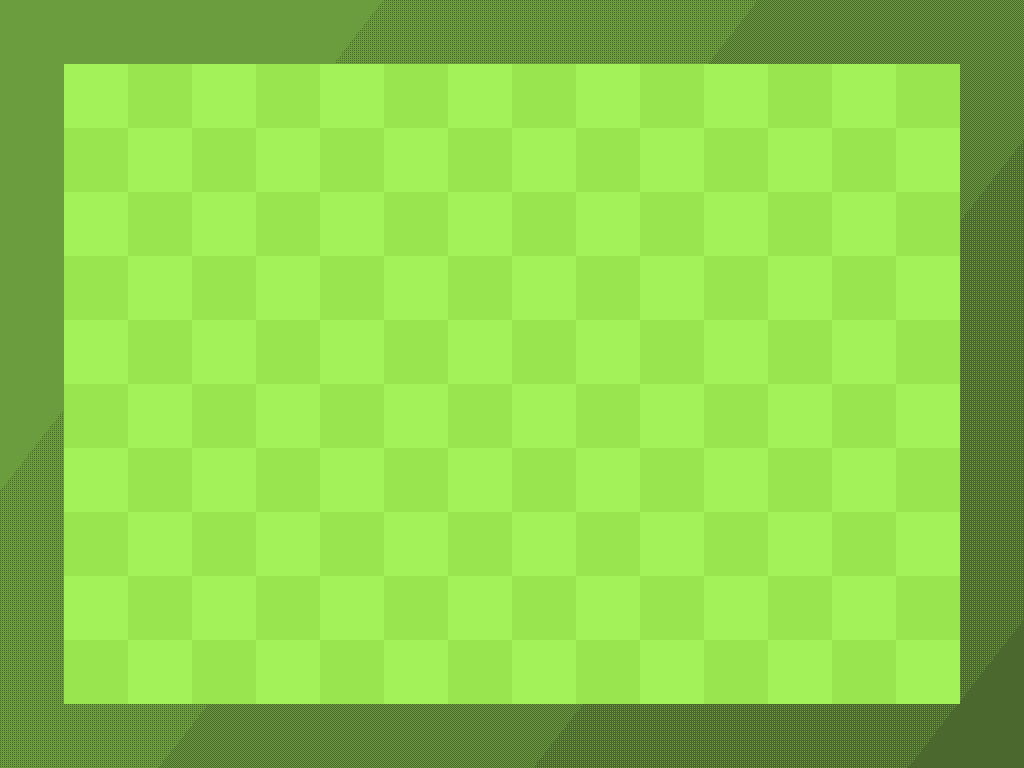
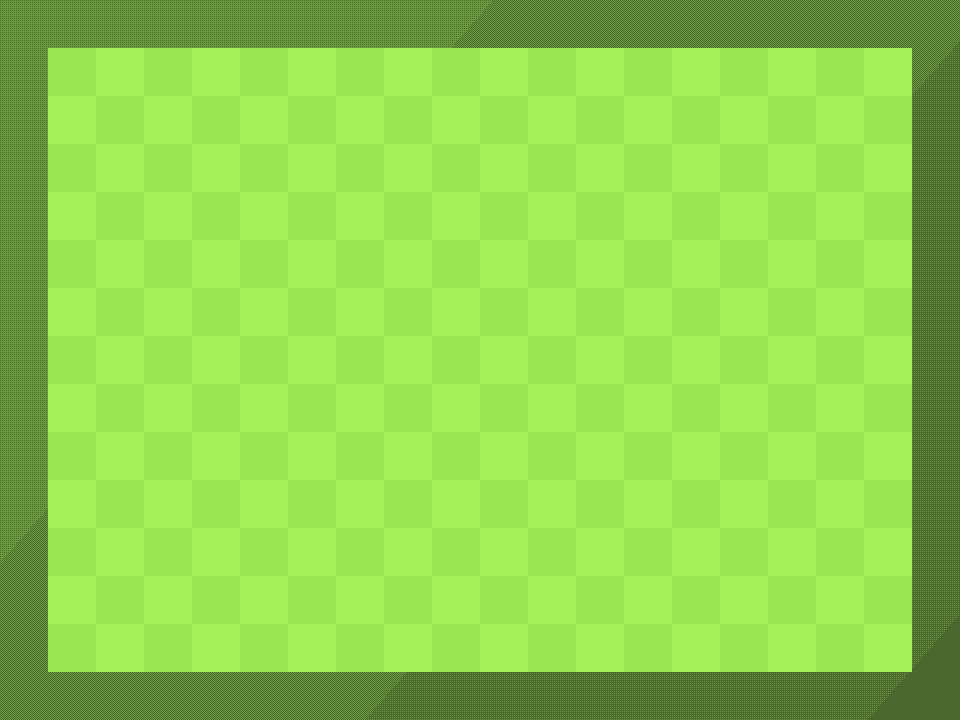
modified:   assets/field.png 	modified:   src/config.h 	modified:   src/entity.cpp 	modified:   src/main.cpp 	modified:   src/snake.cpp 	modified:   src/snake.h

Changed region(s): [[0.0, 0.0, 1.0, 1.0]]

diff --git a/src/main.cpp b/src/main.cpp
@@ -41,16 +41,16 @@ void handleEvents(SDL_Event event, Snake* snake) {      // handle input
             case SDL_KEYDOWN: // if key pressed down
                 switch ( event.key.keysym.sym ){ // get key code
                     case SDLK_RIGHT:
-                        snake->setDirection(1, 0);
+                        snake->setDirection( {1, 0} );
                         break;
                     case SDLK_LEFT:
-                        snake->setDirection(-1, 0);
+                        snake->setDirection( {-1, 0} );
                         break;
                     case SDLK_DOWN:
-                        snake->setDirection(0, 1);
+                        snake->setDirection( {0, 1});
                         break;
                     case SDLK_UP:
-                        snake->setDirection(0, -1);
+                        snake->setDirection( {0, -1} );
                         break;
                     case SDLK_ESCAPE:
                         IsGame = false;
@@ -73,19 +73,19 @@ void checkCollision(Snake* snake, Apple* apple){
         isCollide( snake->getHitbox(), {0, SCREEN_LENGHT - BORDER_SIZE, SCREEN_WIDTH, 0} ) ||
         isCollide( snake->getHitbox(), {SCREEN_WIDTH - BORDER_SIZE, 0, 0, SCREEN_LENGHT} ) 
        ) {
-        snake->setDirection(0.0f, 0.0f);
+        snake->setDirection( {0.0f, 0.0f} );
     }
     
     // check for collision with apple
-    if ( isCollide( snake->getHitbox(), apple->getHitbox() ) ){
+    // if ( isCollide( snake->getHitbox(), apple->getHitbox() ) ){
+    if ( snake->getPos().x == apple->getPos().x && snake->getPos().y == apple->getPos().y ){
           
         std::srand(std::time(nullptr));
 
-        int random_x = ( BORDER_SIZE * 4 ) + std::rand() % ( SCREEN_WIDTH - BORDER_SIZE * 8 );
-        int random_y = ( BORDER_SIZE * 4 ) + std::rand() % ( SCREEN_LENGHT - BORDER_SIZE * 8 );
+        int random_x = BORDER_SIZE*2 + std::rand() % (SCREEN_WIDTH / GRID_SIZE) - BORDER_SIZE*2;//BORDER_SIZE - std::rand() % ( (SCREEN_WIDTH  / GRID_SIZE)  + BORDER_SIZE * 4);
+        int random_y = BORDER_SIZE*2 + std::rand() % (SCREEN_LENGHT / GRID_SIZE) - BORDER_SIZE*2; //BORDER_SIZE - std::rand() % ( (SCREEN_LENGHT  / GRID_SIZE) + BORDER_SIZE * 4 );
 
-        apple->setPos(random_x, random_y);
-        
+        apple->setPos(random_x * GRID_SIZE, random_y * GRID_SIZE);
     }    
 }
 
@@ -109,7 +109,6 @@ void render(Screen* screen, SDL_Texture* field, Snake* snake, Apple* apple){ // 
 
     screen->render(apple->getTexture(), apple->getPos().x, apple->getPos().y, TEXTURE_SIZE, TEXTURE_SIZE, 0);
 
-    //screen->render(snake->getTextureHead(), snake->getPos().x, snake->getPos().y, TEXTURE_SIZE, TEXTURE_SIZE, snake->getAngle());
     SnakeSegment* pIter = snake->getHead();
 
     while ( pIter != nullptr ){
@@ -145,9 +144,9 @@ int main(){
 
     Screen* screen = new Screen(TITLE, SCREEN_WIDTH, SCREEN_LENGHT);
     //                          title, screen_width, screen_lenght
-    Snake* snake = new Snake(screen, SCREEN_WIDTH/2, BORDER_SIZE*3, 64.0f, 64.0f, SNAKE_SPEED);
+    Snake* snake = new Snake(screen, SCREEN_WIDTH/2, BORDER_SIZE*3, 32.0f, 32.0f, SNAKE_SPEED);
     //                      Screen*, Xpos,           Ypos,          width, length, speed
-    Apple* apple = new Apple(screen, SCREEN_WIDTH/2, BORDER_SIZE*8, 64.0f, 64.0f);
+    Apple* apple = new Apple(screen, SCREEN_WIDTH/2, BORDER_SIZE*8, 48.0f, 48.0f);
     //                      Screen*, Xpos,           Ypos,          width, lenght
 
     const int       FRAME_DELAY = 1000 / FPS;  // MAX FRAME TIME

diff --git a/src/snake.cpp b/src/snake.cpp
@@ -12,7 +12,7 @@ Snake::Snake(Screen* screen, float x, float y, float width, float lenght, float 
 
     for (int i = 0; i < m_segments; i++)
     {
-        addSegment();
+        addSegment(i);
     }
 
     m_pTail->texture = screen->loadTexture("./assets/tail_up.png");
@@ -35,22 +35,40 @@ Snake::Snake(Screen* screen, float x, float y, float width, float lenght, float 
 void Snake::updatePosition(){
 
     m_pHead->direction.normalize();
-    
-    m_pHead->position.x += m_speed * m_pHead->direction.x; 
+
+    m_pHead->position.x += m_speed * m_pHead->direction.x;
     m_pHead->position.y += m_speed * m_pHead->direction.y;
 
-    if ( int( m_pHead->position.x ) % 64 == 0 && int( m_pHead->position.y ) % 64 == 0 ){
-        m_pHead->direction = m_pHead->buffdirection;
-    }
+    // if ( int( m_pHead->position.x ) % 48 == 0 && int( m_pHead->position.y ) % 48 == 0 &&
+    //         ( m_pHead->direction.x != m_pHead->buffdirection.x || m_pHead->direction.y != m_pHead->buffdirection.y) ){
+        
+    //     m_pHead->direction = m_pHead->buffdirection;
+
+    //     // m_pHead->pNext->buffdirection = m_pHead->direction;
+    //     // m_pHead->pNext->buffposition = m_pHead->position;
+    // }
 
     for (SnakeSegment* pIter = m_pHead; pIter->pNext != nullptr; pIter = pIter->pNext){
 
-        // 💀💀💀
-        
+        if ( int( pIter->position.x ) % 48 == 0 && int( pIter->position.y ) % 48 == 0 &&
+            ( pIter->direction.x != pIter->buffdirection.x || pIter->direction.y != pIter->buffdirection.y) ){
+
+            pIter->direction = pIter->buffdirection;
+
+            pIter->pNext->buffdirection = pIter->direction;
+            pIter->pNext->buffposition = pIter->position;
+        }
+
+        if ( pIter->pNext->position.x == pIter->pNext->buffposition.x && pIter->pNext->position.y == pIter->pNext->buffposition.y ){
+            pIter->pNext->direction = pIter->pNext->buffdirection;
+            pIter->pNext->buffposition = {0, 0};
+        }
+
+        pIter->pNext->position.x += m_speed * pIter->pNext->direction.x; 
+        pIter->pNext->position.y += m_speed * pIter->pNext->direction.y;
     }
 }
-
-void Snake::addSegment(){
+void Snake::addSegment(int index){
 
     SnakeSegment* pNewSegment = new SnakeSegment();
 
@@ -63,6 +81,8 @@ void Snake::addSegment(){
     }
     pNewSegment->texture = m_bodyTexture;
 
+    pNewSegment->position.x = 480;
+    pNewSegment->position.y = 144 - (48 * index );
 }
 
 
@@ -70,13 +90,10 @@ void Snake::updateHitbox(){
     m_pHead->hitbox = { m_pHead->position.x, m_pHead->position.y, m_pHead->hitbox.width, m_pHead->hitbox.lenght };
 }
 
-void Snake::setDirection(int dirX, int dirY){
+void Snake::setDirection(Vector2f direction){
 
-    if ( m_pHead->direction.x != (dirX * -1) ){
-         m_pHead->buffdirection.x = dirX;
-    }
-    if ( m_pHead->direction.y != (dirY * -1)  ){
-        m_pHead->buffdirection.y = dirY;
+    if ( m_pHead->direction.y != (direction.y * -1) || m_pHead->direction.x != (direction.x * -1) ){
+        m_pHead->buffdirection = direction;
     }
 
     m_pHead->angle = m_pHead->buffdirection.getAngle();

diff --git a/src/config.h b/src/config.h
@@ -1,9 +1,10 @@
 #pragma once
 /* -----CONFIG FILE----- */
-inline const Uint16             SCREEN_WIDTH = 1024;
-inline const Uint16             SCREEN_LENGHT = 768;
-inline const Uint8              TEXTURE_SIZE = 64;
-inline const Uint8              BORDER_SIZE = 64;
+inline const Uint16             SCREEN_WIDTH = 960;
+inline const Uint16             SCREEN_LENGHT = 720;
+inline const Uint8              TEXTURE_SIZE = 48;
+inline const Uint8              BORDER_SIZE = 48;
+inline const Uint8              GRID_SIZE = 48;
 inline const Uint8              FPS = 75;
 inline const float              SNAKE_SPEED = 2.0f;
 inline const char*              TITLE = "Cnake";

diff --git a/src/snake.h b/src/snake.h
@@ -31,9 +31,9 @@ public:
     void            setPos(int x, int y);
     void            updatePosition();
     void            updateHitbox();
-    void            setDirection(int dirX, int dirY);
+    void            setDirection(Vector2f direction);
 
-    void            addSegment();
+    void            addSegment(int index);
     void            removeSegment();
 
     SDL_Texture*    getTextureHead() const;

diff --git a/src/entity.cpp b/src/entity.cpp
@@ -1,0 +1,3 @@
+/*
+generalized entity object
+*/
